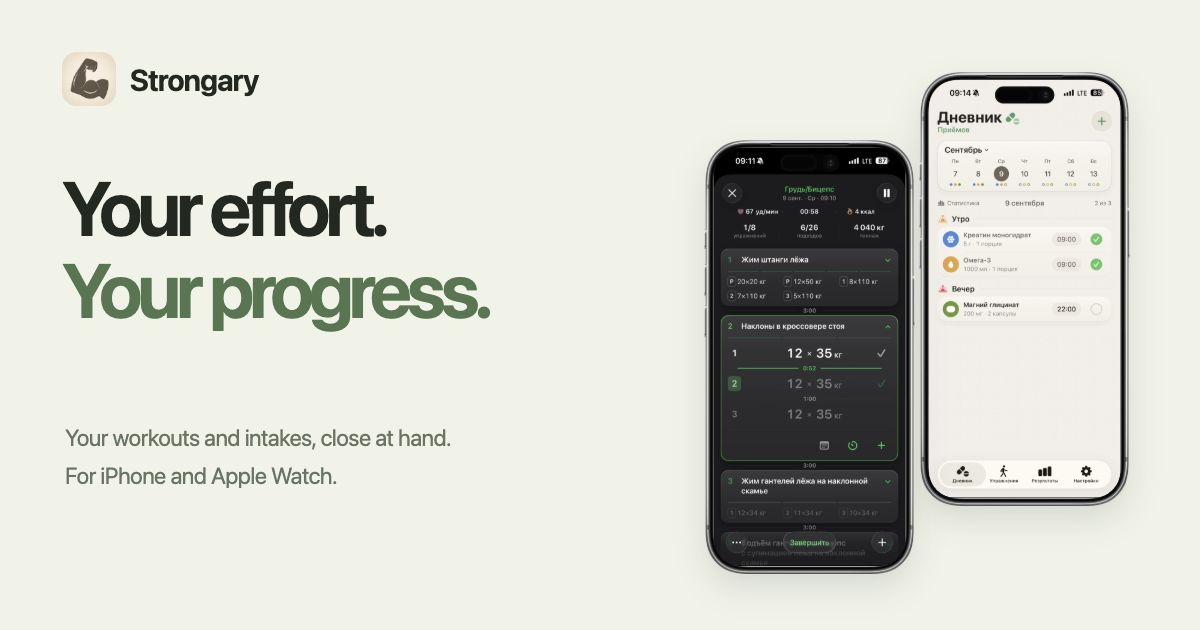
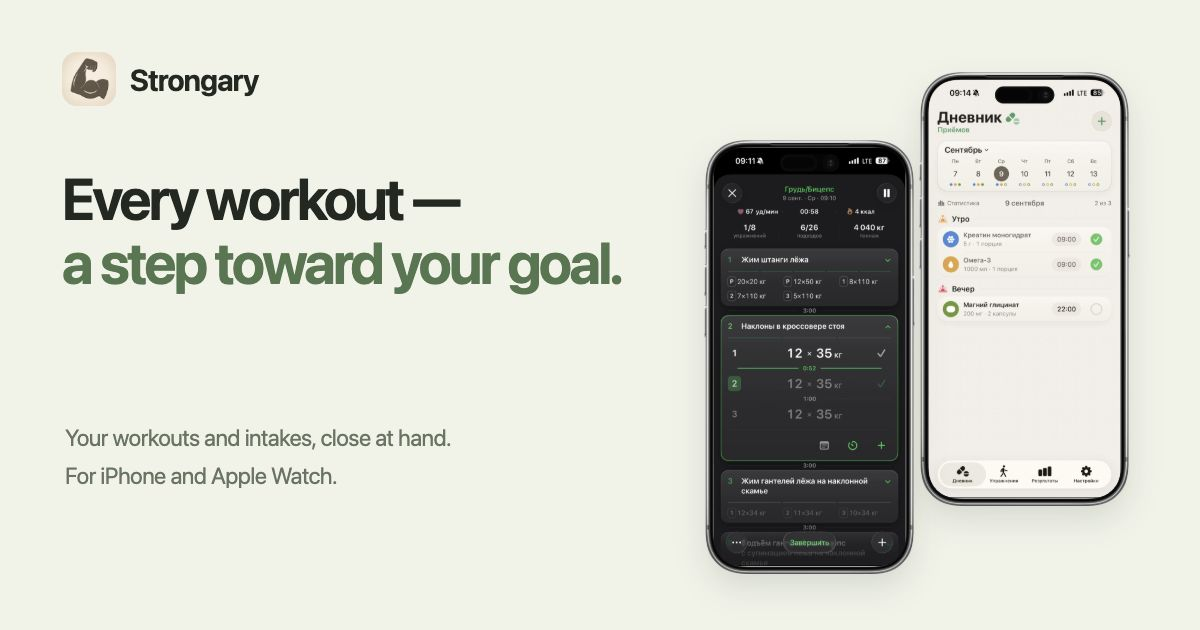
Update headline and improve mobile device layout and scroll performance

Changed region(s): [[0.0308, 0.2714, 0.5242, 0.5429]]

diff --git a/styles.css b/styles.css
@@ -26,11 +26,11 @@ button, input { font: inherit; }
 .svg-library { width: 0; height: 0; position: absolute; overflow: hidden; }
 .skip-link { color: #222820; position: fixed; z-index: 100; top: 12px; left: 16px; padding: 12px 20px; background: white; border-radius: 12px; transform: translateY(-180%); }
 .skip-link:focus { transform: none; }
-.reading-progress { position: absolute; left: 0; bottom: -1px; width: 100%; height: 2px; background: #5b8150; transform-origin: left; transform: scaleX(var(--read, 0)); }
+.reading-progress { position: absolute; left: 0; bottom: -1px; width: 100%; height: 2px; background: #5b8150; transform-origin: left; transform: scaleX(0); }
 .eyebrow { font-size: 11px; letter-spacing: .14em; font-weight: 650; line-height: 1.5; color: var(--green); }
 .hero { overflow: clip; }
 .hero-copy { text-align: center; padding-top: 44px; position: relative; z-index: 3; }
-.hero h1 { font-size: clamp(64px, 7.2vw, 100px); font-weight: 630; letter-spacing: -.067em; line-height: .99; margin: 0 0 24px; }
+.hero h1 { font-size: clamp(52px, 6.4vw, 90px); font-weight: 630; letter-spacing: -.06em; line-height: 1.05; text-wrap: balance; margin: 0 0 24px; }
 .hero h1 span { color: var(--green); }
 .hero-description { font-size: 18px; line-height: 1.55; color: var(--muted); letter-spacing: -.3px; }
 .hero-actions { display: flex; gap: 30px; justify-content: center; align-items: center; margin-top: 28px; }
@@ -43,19 +43,20 @@ button, input { font: inherit; }
 .text-link { display: inline-flex; align-items: center; gap: 12px; font-size: 14px; font-weight: 500; padding-block: 12px; }
 .text-link:hover { color: var(--green); }
 .text-link .icon { width: 19px; height: 19px; }
-.hero-stage { position: relative; height: 625px; margin-top: 24px; isolation: isolate; }
+.hero-stage { --hero-spread: 30px; --hero-lift: -18px; --hero-drop: 16px; --hero-angle: 9deg; position: relative; height: 625px; margin-top: 24px; isolation: isolate; }
 .hero-halo { position: absolute; z-index: -1; width: 740px; height: 740px; left: 50%; top: 38px; transform: translateX(-50%); border: 1px solid var(--line); border-radius: 50%; background: radial-gradient(circle at 50% 35%, var(--halo-center), transparent 70%); }
 .hero-halo::after { content: ""; position: absolute; inset: 42px; border-radius: 50%; border: 1px solid var(--line); }
 .device-phone { display: block; width: 100%; position: relative; aspect-ratio: 389 / 800; isolation: isolate; filter: drop-shadow(0 18px 20px rgb(29 38 22 / 18%)); }
 .device-phone img { position: absolute; left: 4.4%; top: 1.7%; width: 91.2%; height: 96.5%; object-fit: contain; background: #000; border-radius: 14% / 6.4%; }
 .device-phone::after { content: ""; position: absolute; inset: 0; background: url("assets/devices/iphone-17-pro-max.png") center / 100% 100% no-repeat; pointer-events: none; }
-.hero-device { position: absolute; will-change: transform; }
+.hero-device { position: absolute; will-change: transform; transform: translate3d(calc(var(--hero-shift, 0) * var(--device-x)), calc(var(--hero-shift, 0) * var(--device-y)), 0) rotate(var(--device-angle)); }
+.hero-device .device-phone { filter: none; border-radius: 16% / 7%; box-shadow: 0 12px 22px rgb(29 38 22 / 15%); }
 /* Labels share their phone's transform, so the angle and spacing stay together on scroll. */
 .hero-device-label { position: absolute; left: 0; bottom: calc(100% + 16px); width: 100%; text-align: center; font-size: 20px; line-height: 1.35; font-weight: 550; letter-spacing: -.5px; white-space: nowrap; }
 .hero-device-label:hover { color: var(--green); }
-.hero-device-center { width: 280px; left: calc(50% - 140px); top: 0; z-index: 3; transform: translateY(calc(var(--hero-shift, 0) * -18px)); }
-.hero-device-left { width: 238px; left: calc(50% - 357px); top: 57px; z-index: 2; transform: translate(calc(var(--hero-shift, 0) * -30px), calc(var(--hero-shift, 0) * 16px)) rotate(-9deg); }
-.hero-device-right { width: 238px; right: calc(50% - 357px); top: 57px; z-index: 1; transform: translate(calc(var(--hero-shift, 0) * 30px), calc(var(--hero-shift, 0) * 16px)) rotate(9deg); }
+.hero-device-center { --device-x: 0px; --device-y: var(--hero-lift); --device-angle: 0deg; width: 280px; left: calc(50% - 140px); top: 0; z-index: 3; }
+.hero-device-left { --device-x: calc(0px - var(--hero-spread)); --device-y: var(--hero-drop); --device-angle: calc(0deg - var(--hero-angle)); width: 238px; left: calc(50% - 357px); top: 57px; z-index: 2; }
+.hero-device-right { --device-x: var(--hero-spread); --device-y: var(--hero-drop); --device-angle: var(--hero-angle); width: 238px; right: calc(50% - 357px); top: 57px; z-index: 1; }
 .tiny-label { display: block; color: var(--green); font-size: 9px; font-weight: 600; letter-spacing: .13em; }
 .manifesto { max-width: 830px; padding: 82px 0 92px; text-align: center; }
 .manifesto p { font-size: clamp(24px, 2.7vw, 35px); font-weight: 550; letter-spacing: -.045em; line-height: 1.35; }
@@ -168,6 +169,34 @@ h2 span { color: var(--green); }
 .hero-entry:nth-child(2) { animation-delay: .08s; }
 .hero-entry:nth-child(3) { animation-delay: .16s; }
 .hero-entry:nth-child(4) { animation-delay: .24s; }
+
+/* The browser owns scroll motion; JavaScript is only a fallback for older engines. */
+@supports (animation-timeline: view()) and (view-timeline-name: --hero-motion) {
+  @media (prefers-reduced-motion: no-preference) {
+    .hero-stage { view-timeline: --hero-motion block; view-timeline-inset: 0; }
+    .hero-device { animation: hero-spread linear both; animation-timeline: --hero-motion; }
+    .intakes-stage { view-timeline: --intake-motion block; view-timeline-inset: 0; }
+    .intake-phone-day { animation: intake-day-drift linear both; animation-timeline: --intake-motion; }
+    .intake-phone-stats { animation: intake-stats-drift linear both; animation-timeline: --intake-motion; }
+    .reading-progress { animation: reading-progress linear both; animation-timeline: scroll(root block); }
+  }
+}
+@keyframes hero-spread {
+  from { transform: translate3d(0, 0, 0) rotate(var(--device-angle)); }
+  to { transform: translate3d(var(--device-x), var(--device-y), 0) rotate(var(--device-angle)); }
+}
+@keyframes intake-day-drift {
+  from { transform: translate3d(0, 0, 0) rotate(-7deg); }
+  to { transform: translate3d(0, -28px, 0) rotate(-7deg); }
+}
+@keyframes intake-stats-drift {
+  from { transform: translate3d(0, 0, 0) rotate(8deg); }
+  to { transform: translate3d(0, 28px, 0) rotate(8deg); }
+}
+@keyframes reading-progress {
+  from { transform: scaleX(0); }
+  to { transform: scaleX(1); }
+}
 @media (max-width: 1150px) {
   .training-grid { gap: 28px; }
   .step-copy h3 { min-height: 3.39em; }
@@ -187,10 +216,11 @@ h2 span { color: var(--green); }
 }
 @media (max-width: 900px) {
   .wrap { width: calc(100% - 56px); }
-  .hero-stage { height: 615px; }
-  .hero-device-center { width: 260px; left: calc(50% - 130px); }
-  .hero-device-left { width: 220px; left: calc(50% - 325px); }
-  .hero-device-right { width: 220px; right: calc(50% - 325px); }
+  .hero-stage { --hero-spread: 16px; --hero-angle: 6deg; width: calc(100% - 32px); max-width: 700px; height: auto; aspect-ratio: 1.17; margin-top: 32px; }
+  .hero-device-center { width: 36%; left: 32%; }
+  .hero-device-left { width: 30%; left: 5%; top: 8%; }
+  .hero-device-right { width: 30%; right: 5%; top: 8%; }
+  .hero-device-label { font-size: 18px; }
   .manifesto { padding-block: 90px; }
   .training-section { padding-block: 80px; }
   .section-heading { margin-bottom: 60px; }
@@ -204,7 +234,7 @@ h2 span { color: var(--green); }
   .results-phone.front { width: 210px; }
   .results-phone.rear { width: 185px; }
   .results-visual { height: 500px; }
-  .results-orbit { width: 400px; height: 400px; }
+  .results-orbit { width: min(400px, 100%); height: auto; aspect-ratio: 1; }
   .intakes-section { padding-block: 80px; }
   .intake-caption { display: none; }
   .intake-features { gap: 30px; }
@@ -221,20 +251,16 @@ h2 span { color: var(--green); }
   .wrap { width: calc(100% - 40px); }
   .hero-copy { padding-top: 47px; }
   .eyebrow { font-size: 9px; letter-spacing: .12em; }
-  .hero h1 { font-size: clamp(52px, 12vw, 73px); letter-spacing: -.065em; margin-block: 0 23px; }
+  .hero h1 { font-size: clamp(27px, 8.4vw, 50px); letter-spacing: -.055em; margin-block: 0 23px; }
   .hero-description { font-size: 15px; line-height: 1.6; max-width: 310px; margin-inline: auto; }
   .desktop-break { display: none; }
   .hero-actions { flex-direction: column; gap: 7px; margin-top: 23px; }
   .button { font-size: 13px; padding: 13px 23px; }
   .text-link { font-size: 12px; }
-  .hero-stage { margin-top: 24px; height: 415px; width: 100%; }
-  .hero-device-center { width: 186px; left: calc(50% - 93px); }
-  .hero-device-left { width: 158px; left: calc(50% - 216px); top: 49px; }
-  .hero-device-right { width: 158px; right: calc(50% - 216px); top: 49px; }
-  .hero-device-label { font-size: 14px; bottom: calc(100% + 44px); letter-spacing: -.2px; }
-  .hero-device-left .hero-device-label { left: 30%; }
-  .hero-device-right .hero-device-label { left: -30%; }
-  .hero-halo { width: 510px; height: 510px; top: 0; }
+  .hero-stage { --hero-spread: 10px; --hero-lift: -8px; --hero-drop: 6px; max-width: 480px; }
+  .hero-device-label { font-size: clamp(12px, 3.3vw, 16px); bottom: calc(100% + 14px); letter-spacing: -.2px; }
+  .hero-device .device-phone { box-shadow: 0 8px 14px rgb(29 38 22 / 13%); }
+  .hero-halo { width: 100%; height: auto; aspect-ratio: 1; top: -12px; }
   .manifesto { padding-block: 65px 72px; }
   .manifesto p { font-size: 23px; letter-spacing: -.045em; }
   .training-section { padding-block: 62px; }
@@ -294,9 +320,6 @@ h2 span { color: var(--green); }
   .document h2 { font-size: 23px; }
 }
 @media (max-width: 360px) {
-  .hero h1 { font-size: 52px; }
-  .hero-device-left .hero-device-label { left: 48%; }
-  .hero-device-right .hero-device-label { left: -48%; }
   .hero-description { font-size: 14px; }
   .manifesto p { font-size: 20px; }
   .intake-phone { width: 175px; }
@@ -310,9 +333,7 @@ h2 span { color: var(--green); }
   html { scroll-behavior: auto; }
   *, *::before, *::after { animation: none !important; transition: none !important; }
   [data-reveal].will-reveal { opacity: 1; transform: none; }
-  .hero-device-center { transform: none; }
-  .hero-device-left { transform: rotate(-9deg); }
-  .hero-device-right { transform: rotate(9deg); }
+  .hero-device { transform: rotate(var(--device-angle)); will-change: auto; }
   .intake-phone-day { transform: rotate(-7deg); }
   .intake-phone-stats { transform: rotate(8deg); }
 }
@@ -416,7 +437,6 @@ h2 span { color: var(--green); }
   .main-nav { gap: 10px; font-size: 10.5px; }
   .main-nav a { gap: 4px; }
   .nav-cta { font-size: 10px; gap: 7px; padding: 8px 11px; }
-  .hero h1 { font-size: clamp(47px, 11.9vw, 71px); }
   .hero-directions { margin-top: 33px; }
   .hero-directions > p { font-size: 12px; }
   .chapter-label { font-size: 24px; }

diff --git a/site.js b/site.js
@@ -124,38 +124,70 @@
 
   const heroStage = document.querySelector('.hero-stage');
   const intakeStage = document.querySelector('[data-parallax]');
+  const progressBar = document.querySelector('.reading-progress');
+  const nativeScrollMotion = CSS.supports('animation-timeline: view()') && CSS.supports('view-timeline-name: --hero-motion');
   const navSections = [...document.querySelectorAll('main > section[id]')];
   const navLinks = [...document.querySelectorAll('.main-nav a')];
   let scheduled = false;
+  let layoutDirty = true;
+  let height = 0;
+  let pageHeight = 0;
+  let sceneBounds = [];
+  let sectionBounds = [];
+  let currentSection = null;
+  function measureLayout() {
+    // Read layout together, only after content or viewport geometry changes.
+    const y = scrollY;
+    height = innerHeight;
+    pageHeight = root.scrollHeight - height;
+    sceneBounds = nativeScrollMotion ? [] : [[heroStage, '--hero-shift'], [intakeStage, '--drift']]
+      .filter(([node]) => node)
+      .map(([node, property]) => {
+        const rect = node.getBoundingClientRect();
+        return { node, property, top: rect.top + y, height: rect.height };
+      });
+    sectionBounds = navSections.map(section => ({ hash: `#${section.id}`, top: section.getBoundingClientRect().top + y }));
+    layoutDirty = false;
+  }
   function updateScroll() {
     scheduled = false;
-    const height = innerHeight;
-    const pageHeight = root.scrollHeight - height;
-    root.style.setProperty('--read', pageHeight > 0 ? clamp(scrollY / pageHeight) : 0);
-    if (!reducedMotion.matches) {
-      if (heroStage) {
-        const rect = heroStage.getBoundingClientRect();
-        if (rect.bottom > 0 && rect.top < height) heroStage.style.setProperty('--hero-shift', clamp((height - rect.top) / (height + rect.height)));
-      }
-      if (intakeStage) {
-        const rect = intakeStage.getBoundingClientRect();
-        if (rect.bottom > 0 && rect.top < height) intakeStage.style.setProperty('--drift', clamp((height - rect.top) / (height + rect.height)));
-      }
+    if (layoutDirty) measureLayout();
+    const y = scrollY;
+    if (progressBar && (!nativeScrollMotion || reducedMotion.matches)) {
+      progressBar.style.transform = `scaleX(${pageHeight > 0 ? clamp(y / pageHeight) : 0})`;
+    }
+    if (!nativeScrollMotion && !reducedMotion.matches) {
+      sceneBounds.forEach(scene => {
+        const top = scene.top - y;
+        if (top + scene.height > 0 && top < height) {
+          scene.node.style.setProperty(scene.property, clamp((height - top) / (height + scene.height)));
+        }
+      });
     }
     let current = '';
-    navSections.forEach(section => { if (section.getBoundingClientRect().top <= height * .35) current = `#${section.id}`; });
-    navLinks.forEach(link => {
-      if (link.hash === current) link.setAttribute('aria-current', 'location');
-      else link.removeAttribute('aria-current');
-    });
+    sectionBounds.forEach(section => { if (section.top <= y + height * .35) current = section.hash; });
+    if (current !== currentSection) {
+      navLinks.forEach(link => {
+        if (link.hash === current) link.setAttribute('aria-current', 'location');
+        else link.removeAttribute('aria-current');
+      });
+      currentSection = current;
+    }
   }
   function requestUpdate() {
     if (scheduled) return;
     scheduled = true;
     requestAnimationFrame(updateScroll);
   }
+  function invalidateLayout() {
+    layoutDirty = true;
+    requestUpdate();
+  }
   addEventListener('scroll', requestUpdate, { passive: true });
-  addEventListener('resize', requestUpdate, { passive: true });
-  addEventListener('pageshow', requestUpdate);
+  addEventListener('resize', invalidateLayout, { passive: true });
+  addEventListener('pageshow', invalidateLayout);
+  reducedMotion.addEventListener('change', requestUpdate);
+  if ('ResizeObserver' in window) new ResizeObserver(invalidateLayout).observe(document.body);
+  document.fonts?.ready.then(invalidateLayout);
   updateScroll();
 })();

diff --git a/index.html b/index.html
@@ -3,7 +3,7 @@
 <head>
 <meta charset="utf-8">
 <meta name="viewport" content="width=device-width, initial-scale=1, viewport-fit=cover">
-<title>Strongary — твои усилия. Твой прогресс.</title>
+<title>Strongary — каждая тренировка — шаг к твоей цели.</title>
 <meta name="description" content="Твои тренировки, приёмы и прогресс — в одном приложении. Strongary для iPhone и Apple Watch: планируй занятия, записывай подходы и веди дневник приёмов. Скоро в TestFlight.">
 <meta name="theme-color" content="#f7f8f5">
 <link rel="canonical" href="https://strongary.com/">
@@ -13,7 +13,7 @@
 <meta property="og:type" content="website">
 <meta property="og:locale" content="ru_RU">
 <meta property="og:url" content="https://strongary.com/">
-<meta property="og:title" content="Strongary — твои усилия. Твой прогресс.">
+<meta property="og:title" content="Strongary — каждая тренировка — шаг к твоей цели.">
 <meta property="og:description" content="Тренировки. Приёмы. Твой прогресс. Познакомься со Strongary для iPhone и Apple Watch.">
 <meta property="og:image" content="https://strongary.com/social-preview.png">
 <meta property="og:image:width" content="1200">
@@ -23,9 +23,9 @@
 <link rel="icon" type="image/png" sizes="32x32" href="/favicon-32.png">
 <link rel="apple-touch-icon" href="/apple-touch-icon.png">
 <script src="/preferences.js?v=20261017-5"></script>
-<link rel="stylesheet" href="/styles.css?v=20261017-6">
+<link rel="stylesheet" href="/styles.css?v=20261017-7">
 <script src="/site-config.js?v=20261017-1" defer></script>
-<script src="/site.js?v=20261017-5" defer></script>
+<script src="/site.js?v=20261017-7" defer></script>
 <script src="/analytics.js" defer></script>
 </head><body><svg class="svg-library" xmlns="http://www.w3.org/2000/svg" aria-hidden="true">
 <symbol id="arrow" viewBox="0 0 24 24"><path d="M5 12h14m-6-6 6 6-6 6"/></symbol>
@@ -51,7 +51,7 @@
 </div><div class="reading-progress" aria-hidden="true"></div></header><main id="main">
 <section class="hero" aria-labelledby="hero-title">
 <div class="hero-copy wrap">
-<h1 id="hero-title" class="hero-entry">Твои усилия.<br><span>Твой прогресс.</span></h1>
+<h1 id="hero-title" class="hero-entry">Каждая тренировка —<br><span>шаг к твоей цели.</span></h1>
 <p class="hero-description hero-entry">Тренируйся. Заботься о себе. Замечай прогресс.<br class="desktop-break"> Твои тренировки и приёмы — всегда под рукой.</p>
 <div class="hero-actions hero-entry"><a class="button button-dark" href="#training">Познакомиться ближе <svg class="icon" aria-hidden="true"><use href="#down"/></svg></a><a class="text-link" href="#testflight">Скоро в TestFlight <span aria-hidden="true">↗</span></a></div>
 </div>

diff --git a/en/index.html b/en/index.html
@@ -3,7 +3,7 @@
 <head>
 <meta charset="utf-8">
 <meta name="viewport" content="width=device-width, initial-scale=1, viewport-fit=cover">
-<title>Strongary — your effort. Your progress.</title>
+<title>Strongary — every workout is a step toward your goal.</title>
 <meta name="description" content="Your workouts, intakes and progress in one app. Strongary for iPhone and Apple Watch: plan sessions, log sets and keep an intake diary. Coming soon to TestFlight.">
 <meta name="theme-color" content="#f7f8f5">
 <link rel="canonical" href="https://strongary.com/en/">
@@ -13,7 +13,7 @@
 <meta property="og:type" content="website">
 <meta property="og:locale" content="en_US">
 <meta property="og:url" content="https://strongary.com/en/">
-<meta property="og:title" content="Strongary — your effort. Your progress.">
+<meta property="og:title" content="Strongary — every workout is a step toward your goal.">
 <meta property="og:description" content="Workouts. Intakes. Your progress. Discover Strongary for iPhone and Apple Watch.">
 <meta property="og:image" content="https://strongary.com/social-preview-en.png">
 <meta property="og:image:width" content="1200">
@@ -23,9 +23,9 @@
 <link rel="icon" type="image/png" sizes="32x32" href="/favicon-32.png">
 <link rel="apple-touch-icon" href="/apple-touch-icon.png">
 <script src="/preferences.js?v=20261017-5"></script>
-<link rel="stylesheet" href="/styles.css?v=20261017-6">
+<link rel="stylesheet" href="/styles.css?v=20261017-7">
 <script src="/site-config.js?v=20261017-1" defer></script>
-<script src="/site.js?v=20261017-5" defer></script>
+<script src="/site.js?v=20261017-7" defer></script>
 <script src="/analytics.js" defer></script>
 </head><body><svg class="svg-library" xmlns="http://www.w3.org/2000/svg" aria-hidden="true">
 <symbol id="arrow" viewBox="0 0 24 24"><path d="M5 12h14m-6-6 6 6-6 6"/></symbol>
@@ -51,7 +51,7 @@
 </div><div class="reading-progress" aria-hidden="true"></div></header><main id="main">
 <section class="hero" aria-labelledby="hero-title">
 <div class="hero-copy wrap">
-<h1 id="hero-title" class="hero-entry">Your effort.<br><span>Your progress.</span></h1>
+<h1 id="hero-title" class="hero-entry">Every workout —<br><span>a step toward your goal.</span></h1>
 <p class="hero-description hero-entry">Train. Take care of yourself. See your progress.<br class="desktop-break"> Your workouts and intakes, always close at hand.</p>
 <div class="hero-actions hero-entry"><a class="button button-dark" href="#training">Take a closer look <svg class="icon" aria-hidden="true"><use href="#down"/></svg></a><a class="text-link" href="#testflight">Coming to TestFlight <span aria-hidden="true">↗</span></a></div>
 </div>

diff --git a/404.html b/404.html
@@ -1,5 +1,5 @@
 <!doctype html>
-<html lang="ru"><head><meta charset="utf-8"><meta name="viewport" content="width=device-width, initial-scale=1, viewport-fit=cover"><meta name="robots" content="noindex"><title>Страница не найдена — Strongary</title><meta name="theme-color" content="#f7f8f5"><link rel="icon" href="/favicon.ico"><link rel="canonical" href="https://strongary.com/404.html"><link rel="alternate" hreflang="ru" href="https://strongary.com/404.html"><link rel="alternate" hreflang="en" href="https://strongary.com/en/404.html"><script src="/preferences.js?v=20261017-5"></script><link rel="stylesheet" href="/styles.css?v=20261017-6"><script src="/site.js?v=20261017-5" defer></script><script src="/analytics.js" defer></script></head><body>
+<html lang="ru"><head><meta charset="utf-8"><meta name="viewport" content="width=device-width, initial-scale=1, viewport-fit=cover"><meta name="robots" content="noindex"><title>Страница не найдена — Strongary</title><meta name="theme-color" content="#f7f8f5"><link rel="icon" href="/favicon.ico"><link rel="canonical" href="https://strongary.com/404.html"><link rel="alternate" hreflang="ru" href="https://strongary.com/404.html"><link rel="alternate" hreflang="en" href="https://strongary.com/en/404.html"><script src="/preferences.js?v=20261017-5"></script><link rel="stylesheet" href="/styles.css?v=20261017-7"><script src="/site.js?v=20261017-7" defer></script><script src="/analytics.js" defer></script></head><body>
 <svg class="svg-library" xmlns="http://www.w3.org/2000/svg" aria-hidden="true">
 <symbol id="arrow" viewBox="0 0 24 24"><path d="M5 12h14m-6-6 6 6-6 6"/></symbol>
 <symbol id="down" viewBox="0 0 24 24"><path d="M12 4v16m-6-6 6 6 6-6"/></symbol>

diff --git a/en/404.html b/en/404.html
@@ -1,5 +1,5 @@
 <!doctype html>
-<html lang="en"><head><meta charset="utf-8"><meta name="viewport" content="width=device-width, initial-scale=1, viewport-fit=cover"><meta name="robots" content="noindex"><title>Page not found — Strongary</title><meta name="theme-color" content="#f7f8f5"><link rel="icon" href="/favicon.ico"><link rel="canonical" href="https://strongary.com/en/404.html"><link rel="alternate" hreflang="ru" href="https://strongary.com/404.html"><link rel="alternate" hreflang="en" href="https://strongary.com/en/404.html"><script src="/preferences.js?v=20261017-5"></script><link rel="stylesheet" href="/styles.css?v=20261017-6"><script src="/site.js?v=20261017-5" defer></script><script src="/analytics.js" defer></script></head><body>
+<html lang="en"><head><meta charset="utf-8"><meta name="viewport" content="width=device-width, initial-scale=1, viewport-fit=cover"><meta name="robots" content="noindex"><title>Page not found — Strongary</title><meta name="theme-color" content="#f7f8f5"><link rel="icon" href="/favicon.ico"><link rel="canonical" href="https://strongary.com/en/404.html"><link rel="alternate" hreflang="ru" href="https://strongary.com/404.html"><link rel="alternate" hreflang="en" href="https://strongary.com/en/404.html"><script src="/preferences.js?v=20261017-5"></script><link rel="stylesheet" href="/styles.css?v=20261017-7"><script src="/site.js?v=20261017-7" defer></script><script src="/analytics.js" defer></script></head><body>
 <svg class="svg-library" xmlns="http://www.w3.org/2000/svg" aria-hidden="true">
 <symbol id="arrow" viewBox="0 0 24 24"><path d="M5 12h14m-6-6 6 6-6 6"/></symbol>
 <symbol id="down" viewBox="0 0 24 24"><path d="M12 4v16m-6-6 6 6 6-6"/></symbol>

diff --git a/privacy.html b/privacy.html
@@ -1,5 +1,5 @@
 <!doctype html>
-<html lang="ru"><head><meta charset="utf-8"><meta name="viewport" content="width=device-width, initial-scale=1, viewport-fit=cover"><title>Конфиденциальность — Strongary</title><meta name="theme-color" content="#f7f8f5"><link rel="icon" href="/favicon.ico"><link rel="canonical" href="https://strongary.com/privacy.html"><link rel="alternate" hreflang="ru" href="https://strongary.com/privacy.html"><link rel="alternate" hreflang="en" href="https://strongary.com/en/privacy.html"><script src="/preferences.js?v=20261017-5"></script><link rel="stylesheet" href="/styles.css?v=20261017-6"><script src="/site.js?v=20261017-5" defer></script><script src="/analytics.js" defer></script></head><body>
+<html lang="ru"><head><meta charset="utf-8"><meta name="viewport" content="width=device-width, initial-scale=1, viewport-fit=cover"><title>Конфиденциальность — Strongary</title><meta name="theme-color" content="#f7f8f5"><link rel="icon" href="/favicon.ico"><link rel="canonical" href="https://strongary.com/privacy.html"><link rel="alternate" hreflang="ru" href="https://strongary.com/privacy.html"><link rel="alternate" hreflang="en" href="https://strongary.com/en/privacy.html"><script src="/preferences.js?v=20261017-5"></script><link rel="stylesheet" href="/styles.css?v=20261017-7"><script src="/site.js?v=20261017-7" defer></script><script src="/analytics.js" defer></script></head><body>
 <svg class="svg-library" xmlns="http://www.w3.org/2000/svg" aria-hidden="true">
 <symbol id="arrow" viewBox="0 0 24 24"><path d="M5 12h14m-6-6 6 6-6 6"/></symbol>
 <symbol id="down" viewBox="0 0 24 24"><path d="M12 4v16m-6-6 6 6 6-6"/></symbol>

diff --git a/support.html b/support.html
@@ -1,5 +1,5 @@
 <!doctype html>
-<html lang="ru"><head><meta charset="utf-8"><meta name="viewport" content="width=device-width, initial-scale=1, viewport-fit=cover"><title>Поддержка — Strongary</title><meta name="theme-color" content="#f7f8f5"><link rel="icon" href="/favicon.ico"><link rel="canonical" href="https://strongary.com/support.html"><link rel="alternate" hreflang="ru" href="https://strongary.com/support.html"><link rel="alternate" hreflang="en" href="https://strongary.com/en/support.html"><script src="/preferences.js?v=20261017-5"></script><link rel="stylesheet" href="/styles.css?v=20261017-6"><script src="/site.js?v=20261017-5" defer></script><script src="/analytics.js" defer></script></head><body>
+<html lang="ru"><head><meta charset="utf-8"><meta name="viewport" content="width=device-width, initial-scale=1, viewport-fit=cover"><title>Поддержка — Strongary</title><meta name="theme-color" content="#f7f8f5"><link rel="icon" href="/favicon.ico"><link rel="canonical" href="https://strongary.com/support.html"><link rel="alternate" hreflang="ru" href="https://strongary.com/support.html"><link rel="alternate" hreflang="en" href="https://strongary.com/en/support.html"><script src="/preferences.js?v=20261017-5"></script><link rel="stylesheet" href="/styles.css?v=20261017-7"><script src="/site.js?v=20261017-7" defer></script><script src="/analytics.js" defer></script></head><body>
 <svg class="svg-library" xmlns="http://www.w3.org/2000/svg" aria-hidden="true">
 <symbol id="arrow" viewBox="0 0 24 24"><path d="M5 12h14m-6-6 6 6-6 6"/></symbol>
 <symbol id="down" viewBox="0 0 24 24"><path d="M12 4v16m-6-6 6 6 6-6"/></symbol>

diff --git a/en/privacy.html b/en/privacy.html
@@ -1,5 +1,5 @@
 <!doctype html>
-<html lang="en"><head><meta charset="utf-8"><meta name="viewport" content="width=device-width, initial-scale=1, viewport-fit=cover"><title>Privacy — Strongary</title><meta name="theme-color" content="#f7f8f5"><link rel="icon" href="/favicon.ico"><link rel="canonical" href="https://strongary.com/en/privacy.html"><link rel="alternate" hreflang="ru" href="https://strongary.com/privacy.html"><link rel="alternate" hreflang="en" href="https://strongary.com/en/privacy.html"><script src="/preferences.js?v=20261017-5"></script><link rel="stylesheet" href="/styles.css?v=20261017-6"><script src="/site.js?v=20261017-5" defer></script><script src="/analytics.js" defer></script></head><body>
+<html lang="en"><head><meta charset="utf-8"><meta name="viewport" content="width=device-width, initial-scale=1, viewport-fit=cover"><title>Privacy — Strongary</title><meta name="theme-color" content="#f7f8f5"><link rel="icon" href="/favicon.ico"><link rel="canonical" href="https://strongary.com/en/privacy.html"><link rel="alternate" hreflang="ru" href="https://strongary.com/privacy.html"><link rel="alternate" hreflang="en" href="https://strongary.com/en/privacy.html"><script src="/preferences.js?v=20261017-5"></script><link rel="stylesheet" href="/styles.css?v=20261017-7"><script src="/site.js?v=20261017-7" defer></script><script src="/analytics.js" defer></script></head><body>
 <svg class="svg-library" xmlns="http://www.w3.org/2000/svg" aria-hidden="true">
 <symbol id="arrow" viewBox="0 0 24 24"><path d="M5 12h14m-6-6 6 6-6 6"/></symbol>
 <symbol id="down" viewBox="0 0 24 24"><path d="M12 4v16m-6-6 6 6 6-6"/></symbol>

diff --git a/en/support.html b/en/support.html
@@ -1,5 +1,5 @@
 <!doctype html>
-<html lang="en"><head><meta charset="utf-8"><meta name="viewport" content="width=device-width, initial-scale=1, viewport-fit=cover"><title>Support — Strongary</title><meta name="theme-color" content="#f7f8f5"><link rel="icon" href="/favicon.ico"><link rel="canonical" href="https://strongary.com/en/support.html"><link rel="alternate" hreflang="ru" href="https://strongary.com/support.html"><link rel="alternate" hreflang="en" href="https://strongary.com/en/support.html"><script src="/preferences.js?v=20261017-5"></script><link rel="stylesheet" href="/styles.css?v=20261017-6"><script src="/site.js?v=20261017-5" defer></script><script src="/analytics.js" defer></script></head><body>
+<html lang="en"><head><meta charset="utf-8"><meta name="viewport" content="width=device-width, initial-scale=1, viewport-fit=cover"><title>Support — Strongary</title><meta name="theme-color" content="#f7f8f5"><link rel="icon" href="/favicon.ico"><link rel="canonical" href="https://strongary.com/en/support.html"><link rel="alternate" hreflang="ru" href="https://strongary.com/support.html"><link rel="alternate" hreflang="en" href="https://strongary.com/en/support.html"><script src="/preferences.js?v=20261017-5"></script><link rel="stylesheet" href="/styles.css?v=20261017-7"><script src="/site.js?v=20261017-7" defer></script><script src="/analytics.js" defer></script></head><body>
 <svg class="svg-library" xmlns="http://www.w3.org/2000/svg" aria-hidden="true">
 <symbol id="arrow" viewBox="0 0 24 24"><path d="M5 12h14m-6-6 6 6-6 6"/></symbol>
 <symbol id="down" viewBox="0 0 24 24"><path d="M12 4v16m-6-6 6 6 6-6"/></symbol>
